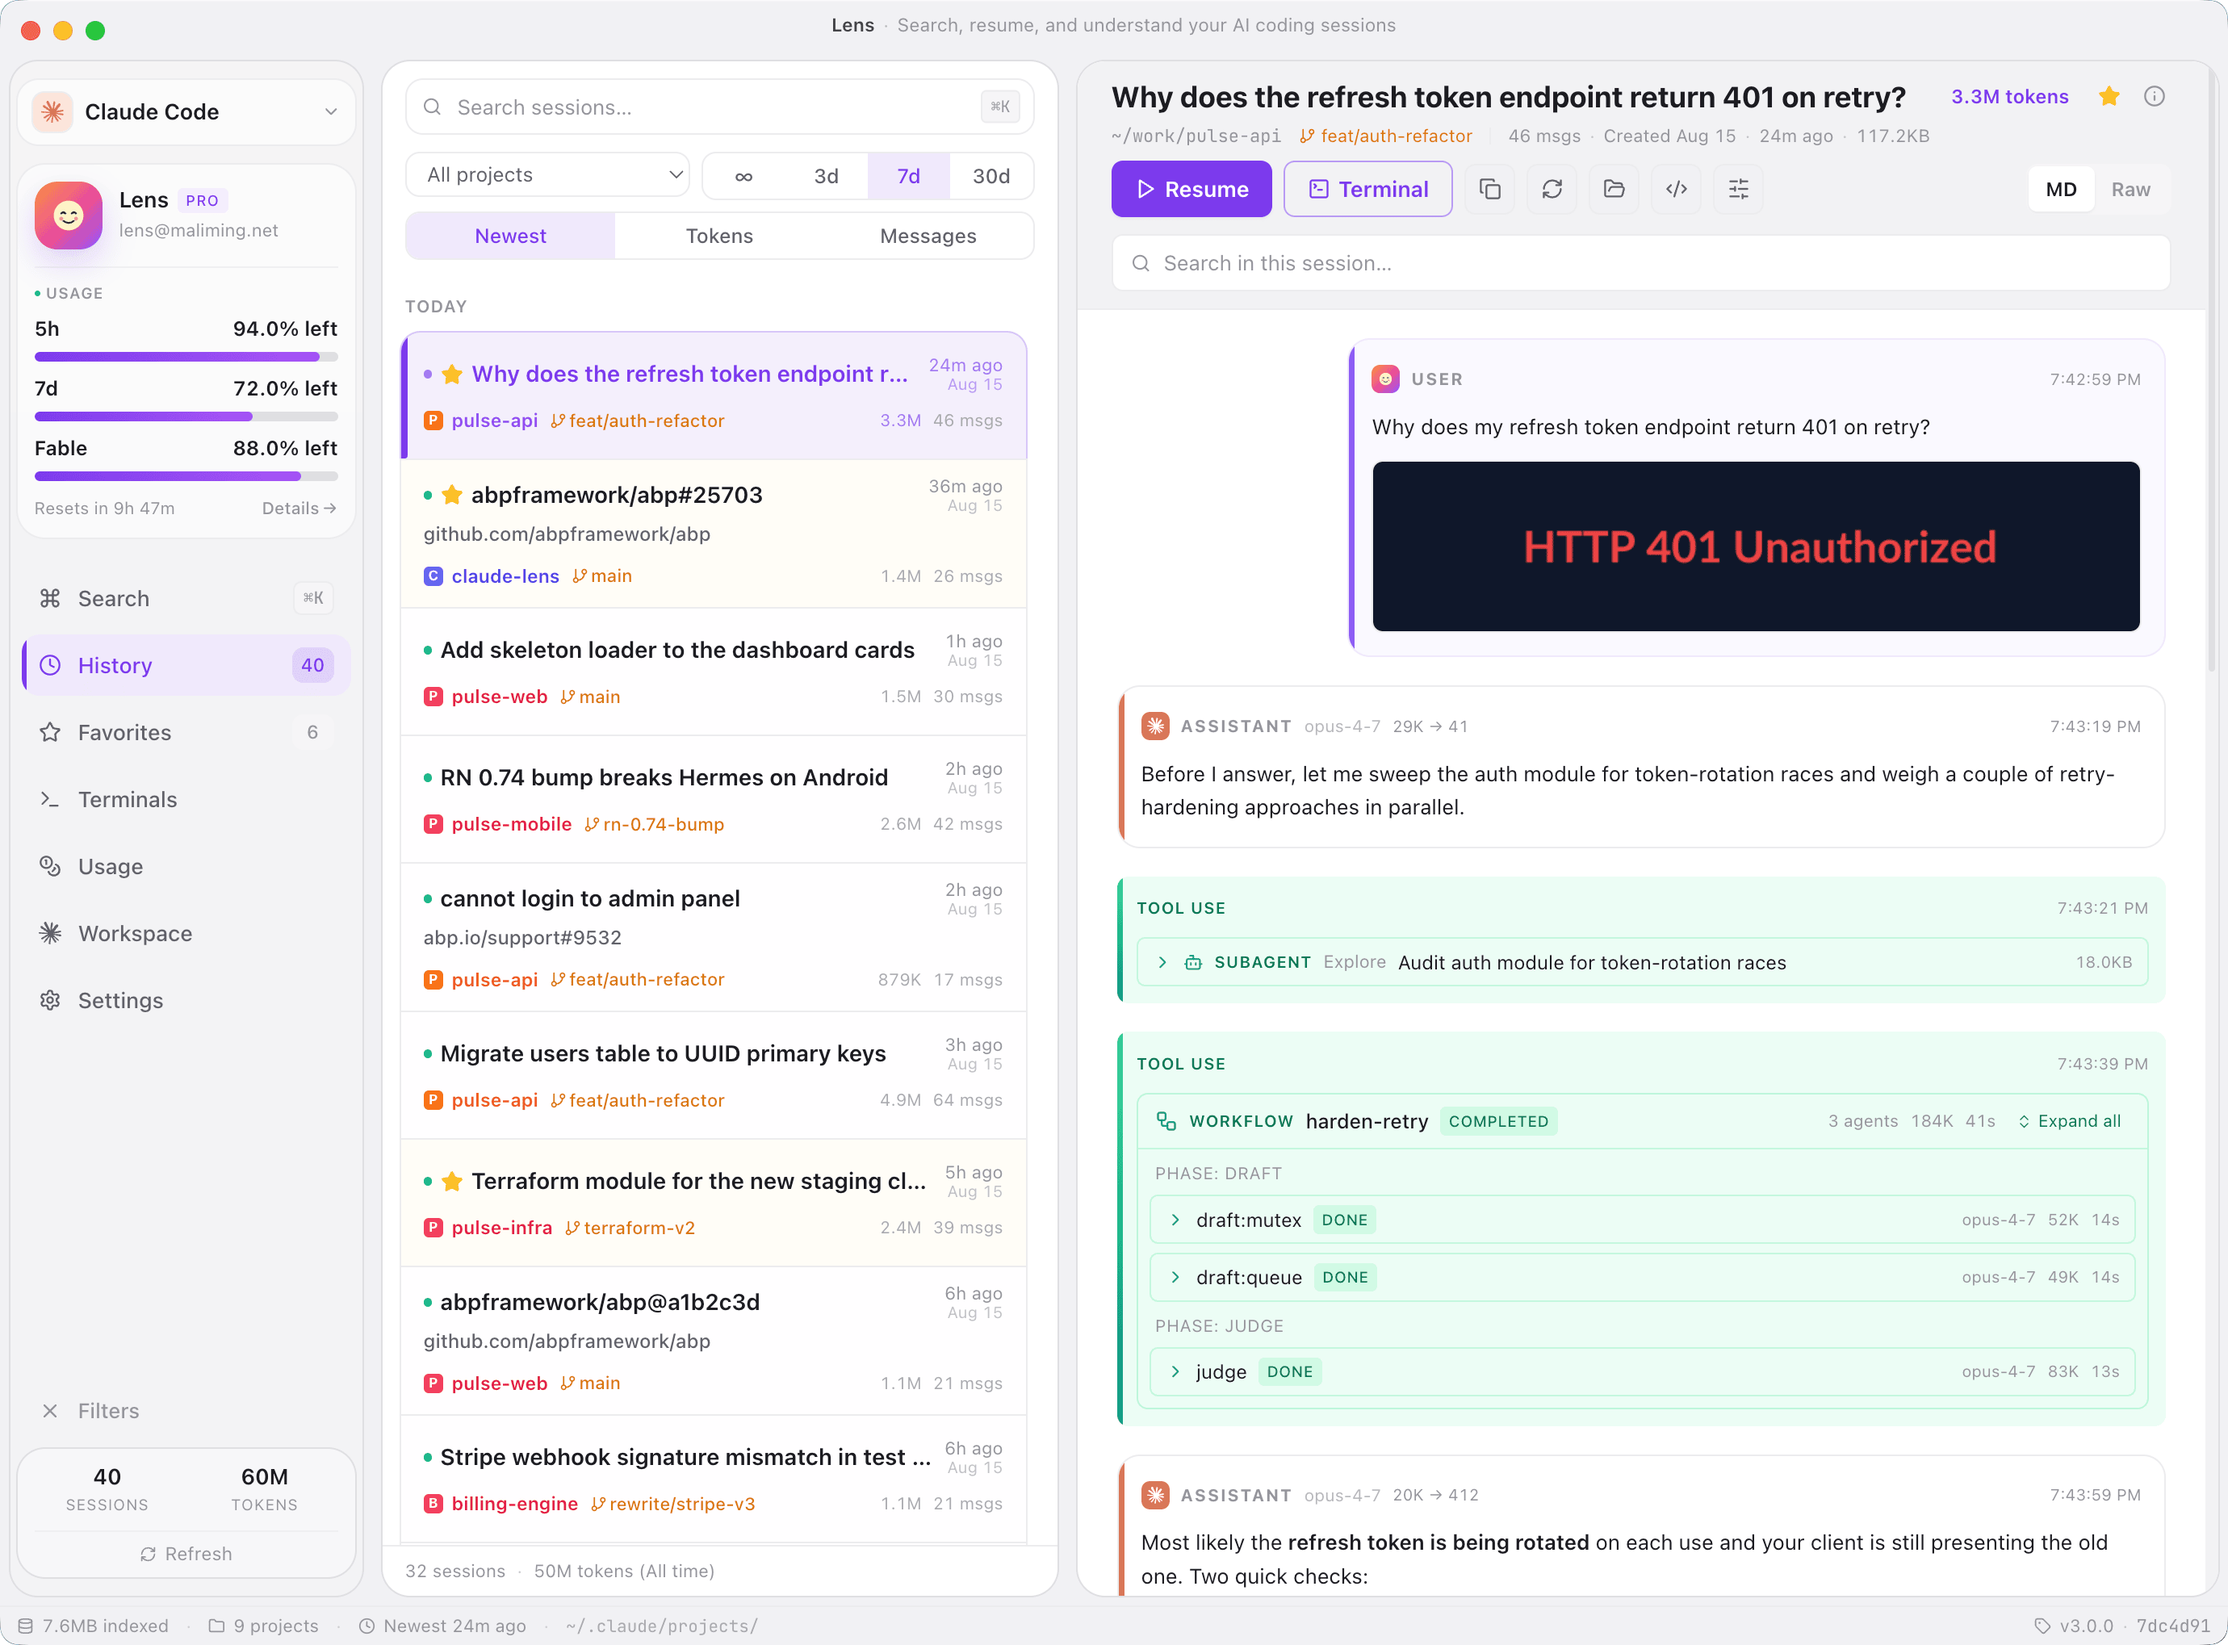
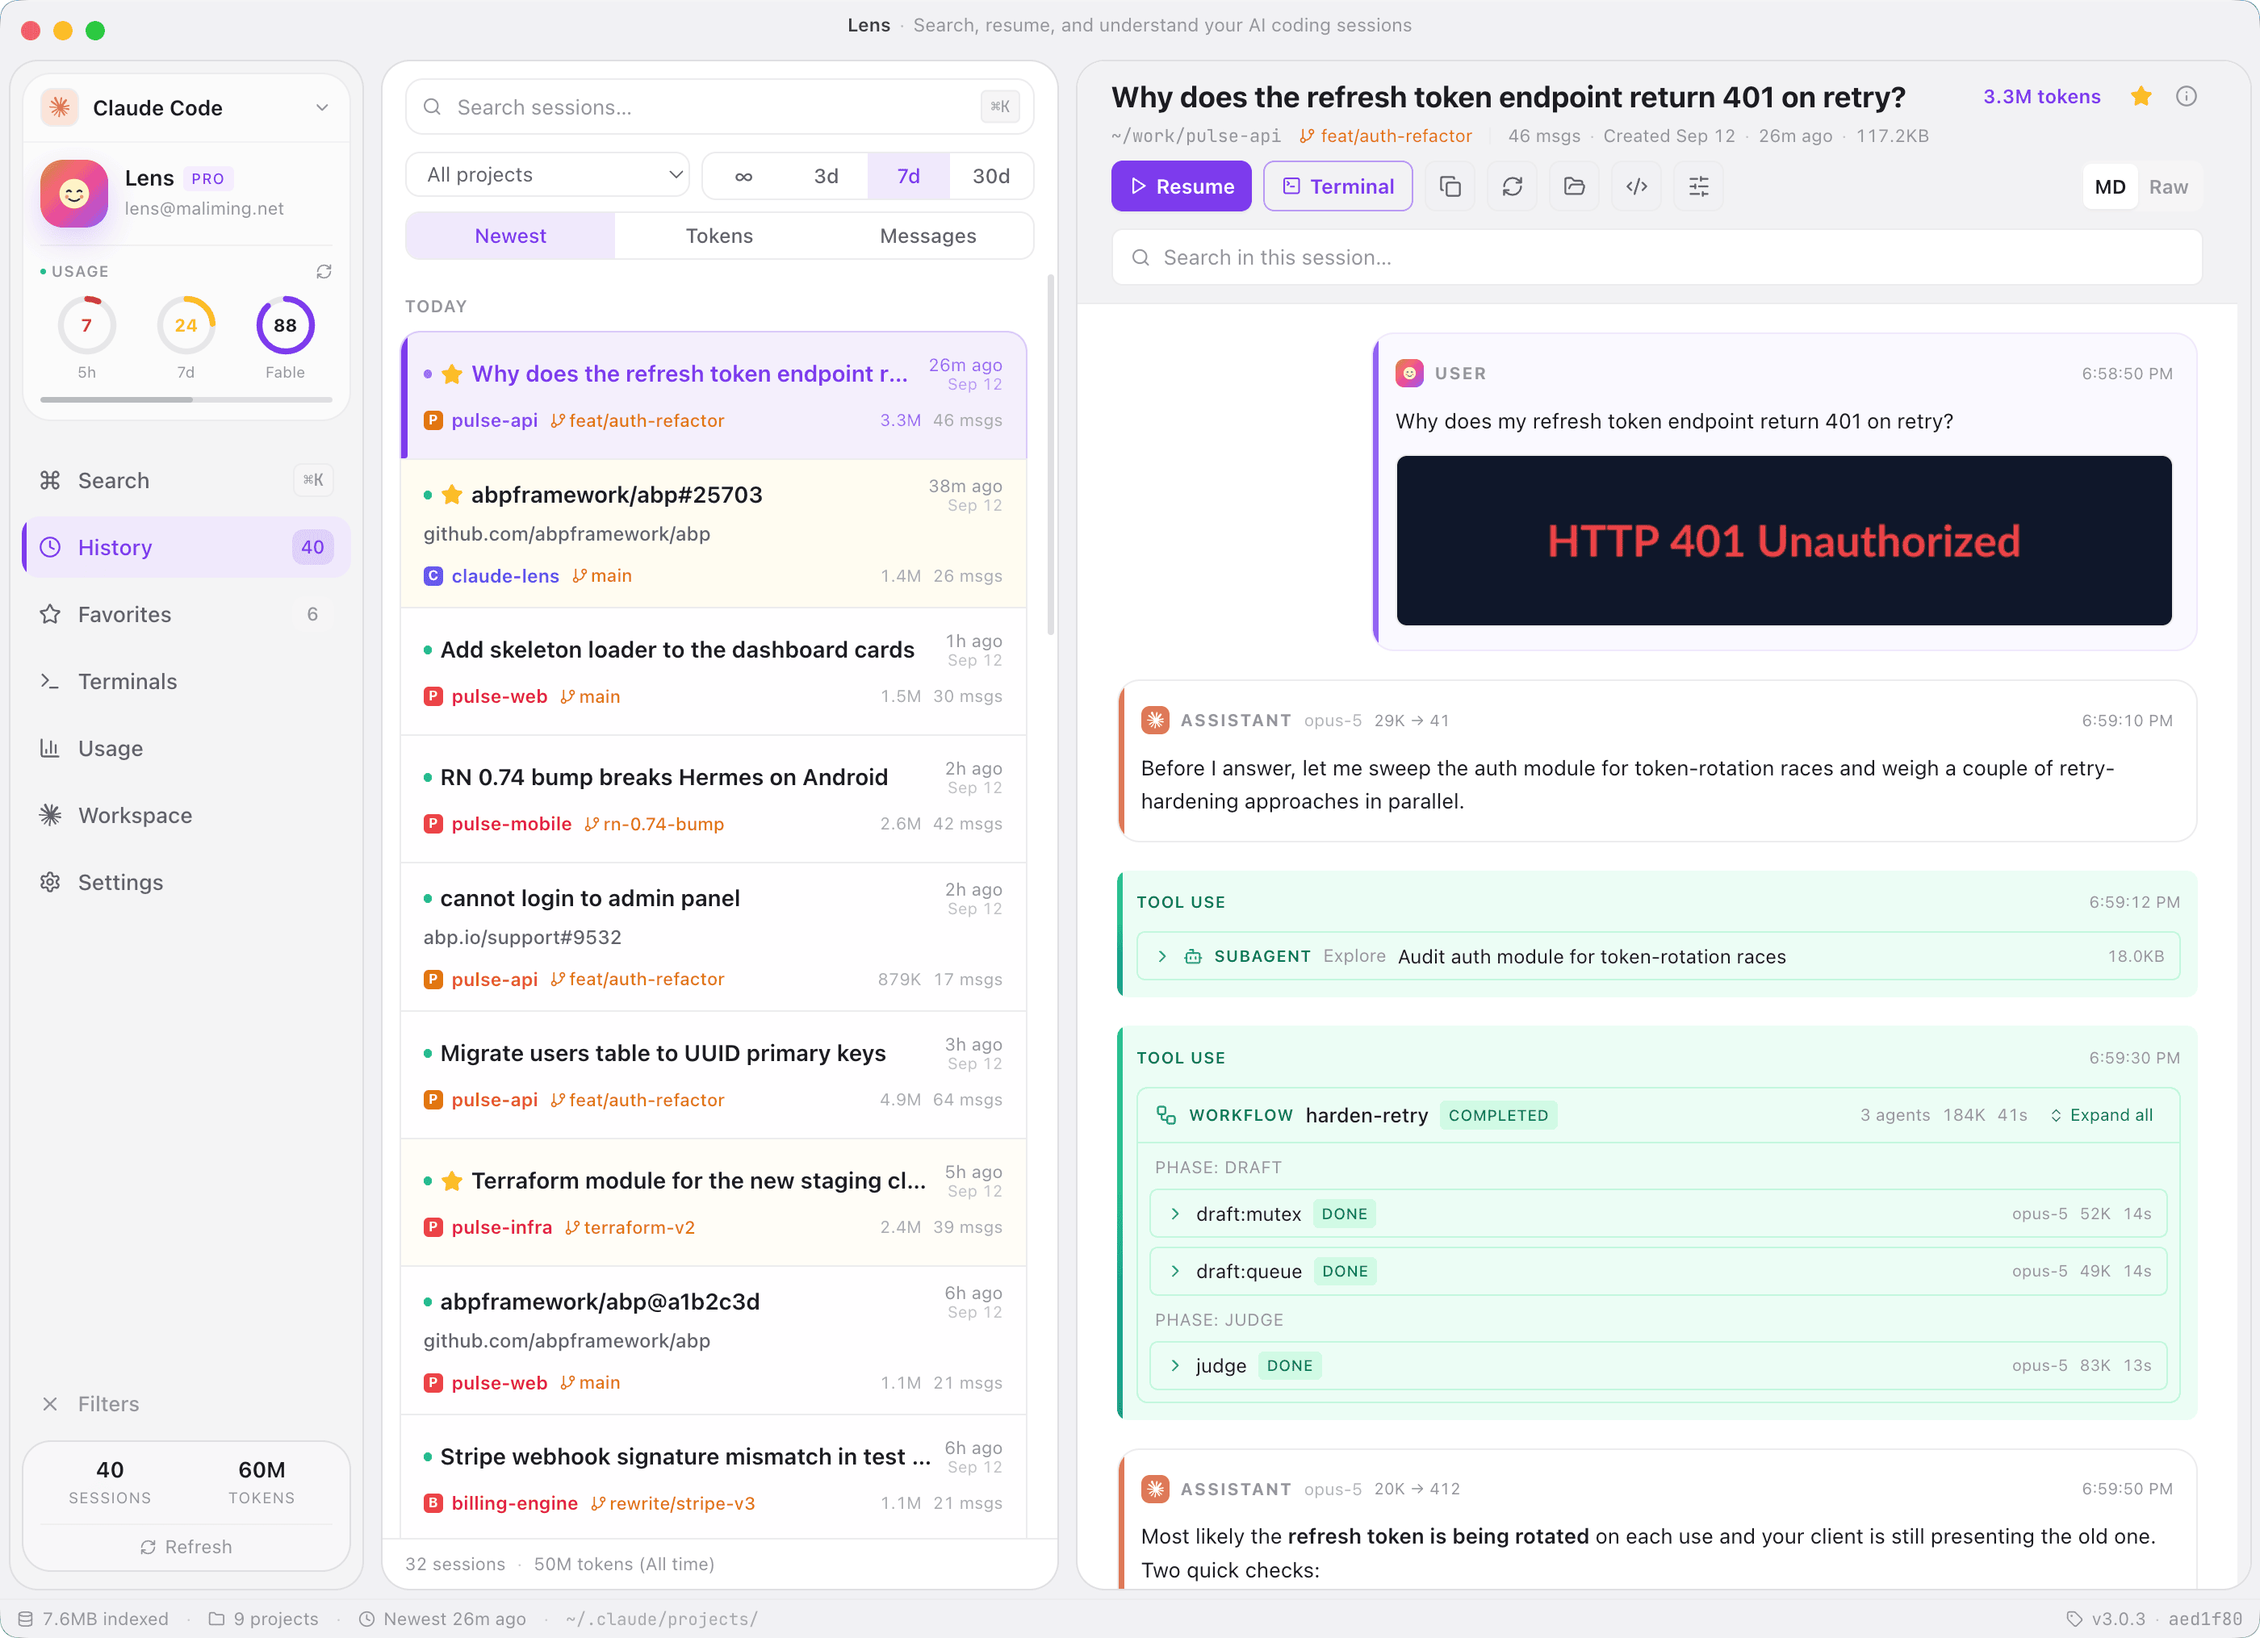
Refresh screenshots and bump to v3.0.3.

diff --git a/website/index.html b/website/index.html
@@ -1032,7 +1032,7 @@
 
 <div class="hero-shot">
   <div class="frame reveal">
-    <img src="./assets/hero.png" alt="Lens main window — sessions list, conversation detail, code blocks, profile card" fetchpriority="high" />
+    <img src="./assets/hero.png" alt="Lens main window — sessions list, conversation detail with tool calls, sidebar quota rings" fetchpriority="high" />
   </div>
 </div>
 
@@ -1143,7 +1143,7 @@
       </ul>
     </div>
     <div class="visual">
-      <div class="frame"><img src="./assets/usage.png" alt="Usage dashboard with hero metrics, live quota, heatmap"  loading="lazy" /></div>
+      <div class="frame"><img src="./assets/usage.png" alt="Usage dashboard with headline metrics, rolling token windows, activity heatmap"  loading="lazy" /></div>
     </div>
   </div>
 
@@ -1160,7 +1160,7 @@
       </ul>
     </div>
     <div class="visual">
-      <div class="frame"><img src="./assets/workspace.png" alt="Workspace browser showing CLAUDE.md content"  loading="lazy" /></div>
+      <div class="frame"><img src="./assets/workspace.png" alt="Workspace browser mapping ~/.claude — CLAUDE.md, skills, commands, hooks"  loading="lazy" /></div>
     </div>
   </div>
 </section>
@@ -1221,7 +1221,7 @@
       </div>
     </div>
     <div class="theme-card reveal">
-      <img src="./assets/dark.png" alt="Lens in dark theme"  loading="lazy" />
+      <img src="./assets/dark.png" alt="Lens in dark theme showing an OpenAI Codex session"  loading="lazy" />
       <div class="label">
         <span class="name">🌙 Dark</span>
         <span class="sub">Easy on the eyes</span>
